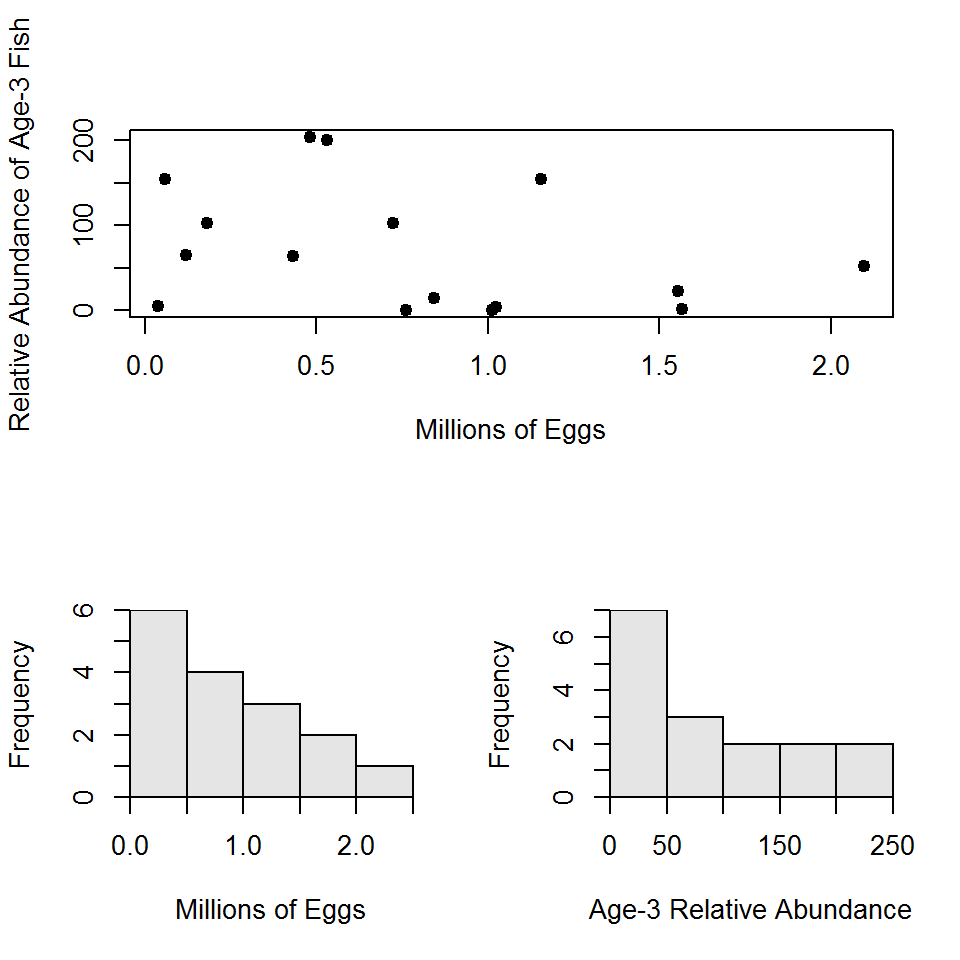
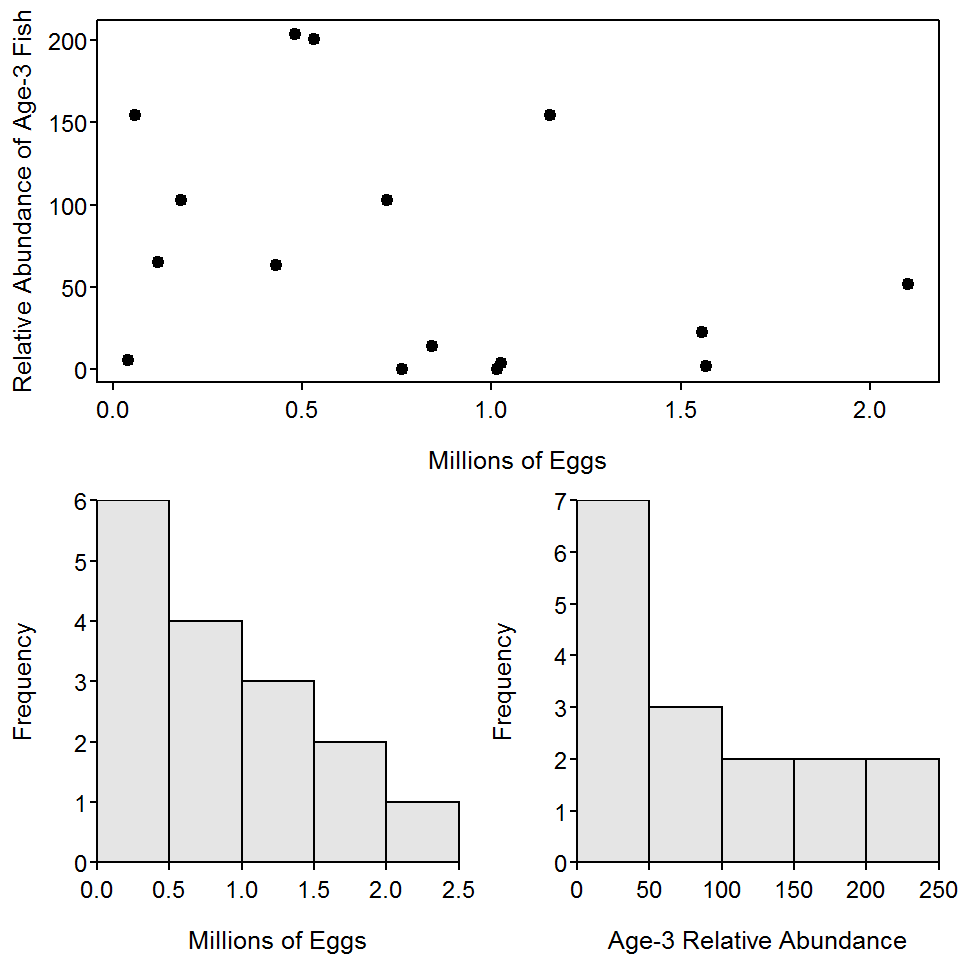
Updated complex layouts supp

diff --git a/supplements/plotting/ComplexLayouts.html b/supplements/plotting/ComplexLayouts.html
@@ -44,7 +44,8 @@ author: Derek H. Ogle
 [2,]    2    1</code></pre>
 <pre class="r"><code>&gt; layout(m)</code></pre>
 <p>The <code>layout.show()</code> function is used to show the layout grid. Its only argument is the number of positions to show.</p>
-<p><img src="ComplexLayouts_files/figure-html/Layout1-1.png" title="" alt="" width="240" /><img src="ComplexLayouts_files/figure-html/Layout1-2.png" title="" alt="" width="240" /><img src="ComplexLayouts_files/figure-html/Layout1-3.png" title="" alt="" width="240" /><img src="ComplexLayouts_files/figure-html/Layout1-4.png" title="" alt="" width="240" /></p>
+<pre class="r"><code>&gt; layout.show(4)</code></pre>
+<p><img src="ComplexLayouts_files/figure-html/Layout1-1.png" title="" alt="" width="240" /></p>
 <p>Figure 1: Illustration of 2x2 layout grid for graphics.</p>
 <p>The 2x2 grid in Figure 1 is not that interesting because that layout is just as easily constructed with <code>mfrow=</code> in <code>par()</code> (as shown in the book). Layouts, however, can also be constructed that are not “grids.” For example, the entire first row may be one graphic with a second row of two graphics. This layout grid is constructed by including a “1” in the first two positions of the layout matrix Figure 2.</p>
 <pre class="r"><code>&gt; ( m &lt;- matrix(c(1,1,2,3),nrow=2,byrow=TRUE) )</code></pre>
@@ -70,7 +71,7 @@ author: Derek H. Ogle
 <pre class="r"><code>&gt; layout(m,height=c(1,4),width=c(4,1),respect=TRUE)
 &gt; layout.show(3)</code></pre>
 <p><img src="ComplexLayouts_files/figure-html/unnamed-chunk-6-1.png" title="" alt="" width="480" /></p>
-<p>Figure 4</p>
+<p>Figure 4: Illustration of layout grid for graphics with differing row heights and column widths.</p>
 <p>Figure 5 is an example that fills the layout shown in Figure 4.</p>
 <pre class="r"><code>&gt; par(mar=c(4,4,0,0))
 &gt; plot(age3~eggs,data=BLH,xlim=c(0,2.4),ylim=c(0,240),pch=19,
@@ -81,10 +82,9 @@ author: Derek H. Ogle
 &gt; par(mar=c(4,0,0,0))
 &gt; boxplot(BLH$age3,axes=FALSE,ylim=c(0,240))</code></pre>
 <p><img src="ComplexLayouts_files/figure-html/unnamed-chunk-7-1.png" title="" alt="" width="480" /></p>
-<p>Figure 5</p>
+<p>Figure 5: Illustration of layout grid with differing heights and widths such that a scatterplot appears in the ‘middle’ with corresponding boxplots on the ‘sides.’</p>
 <p>Finally, <code>layout()</code> can be used to make quite complex grids, as illustrated with the code below that produced Figure 6. Note that <code>plot.new()</code> creates a new blank plot in which the subsequent <code>text()</code> commands will place text (in this case marginal labels).</p>
-<pre class="r"><code>&gt; ## Get data subsets
-&gt; BTH1 &lt;- BT %&gt;% filterD(lake==&quot;Harrison&quot;,era==&quot;1977-80&quot;)
+<pre class="r"><code>&gt; BTH1 &lt;- BT %&gt;% filterD(lake==&quot;Harrison&quot;,era==&quot;1977-80&quot;)
 &gt; BTO1 &lt;- BT %&gt;% filterD(lake==&quot;Osprey&quot;,era==&quot;1977-80&quot;)
 &gt; BTH2 &lt;- BT %&gt;% filterD(lake==&quot;Harrison&quot;,era==&quot;1997-01&quot;)
 &gt; BTO2 &lt;- BT %&gt;% filterD(lake==&quot;Osprey&quot;,era==&quot;1997-01&quot;)
@@ -122,7 +122,7 @@ author: Derek H. Ogle
 <h2>Reproducibility Information</h2>
 <ul>
 <li><strong>Compiled Date:</strong> Mon Sep 21 2015</li>
-<li><strong>Compiled Time:</strong> 9:42:08 AM</li>
+<li><strong>Compiled Time:</strong> 9:48:46 AM</li>
 <li><strong>R Version:</strong> R version 3.2.2 (2015-08-14)</li>
 <li><strong>System:</strong> Windows, i386-w64-mingw32/i386 (32-bit)</li>
 <li><strong>Base Packages:</strong> base, datasets, graphics, grDevices, methods, stats, utils</li>
